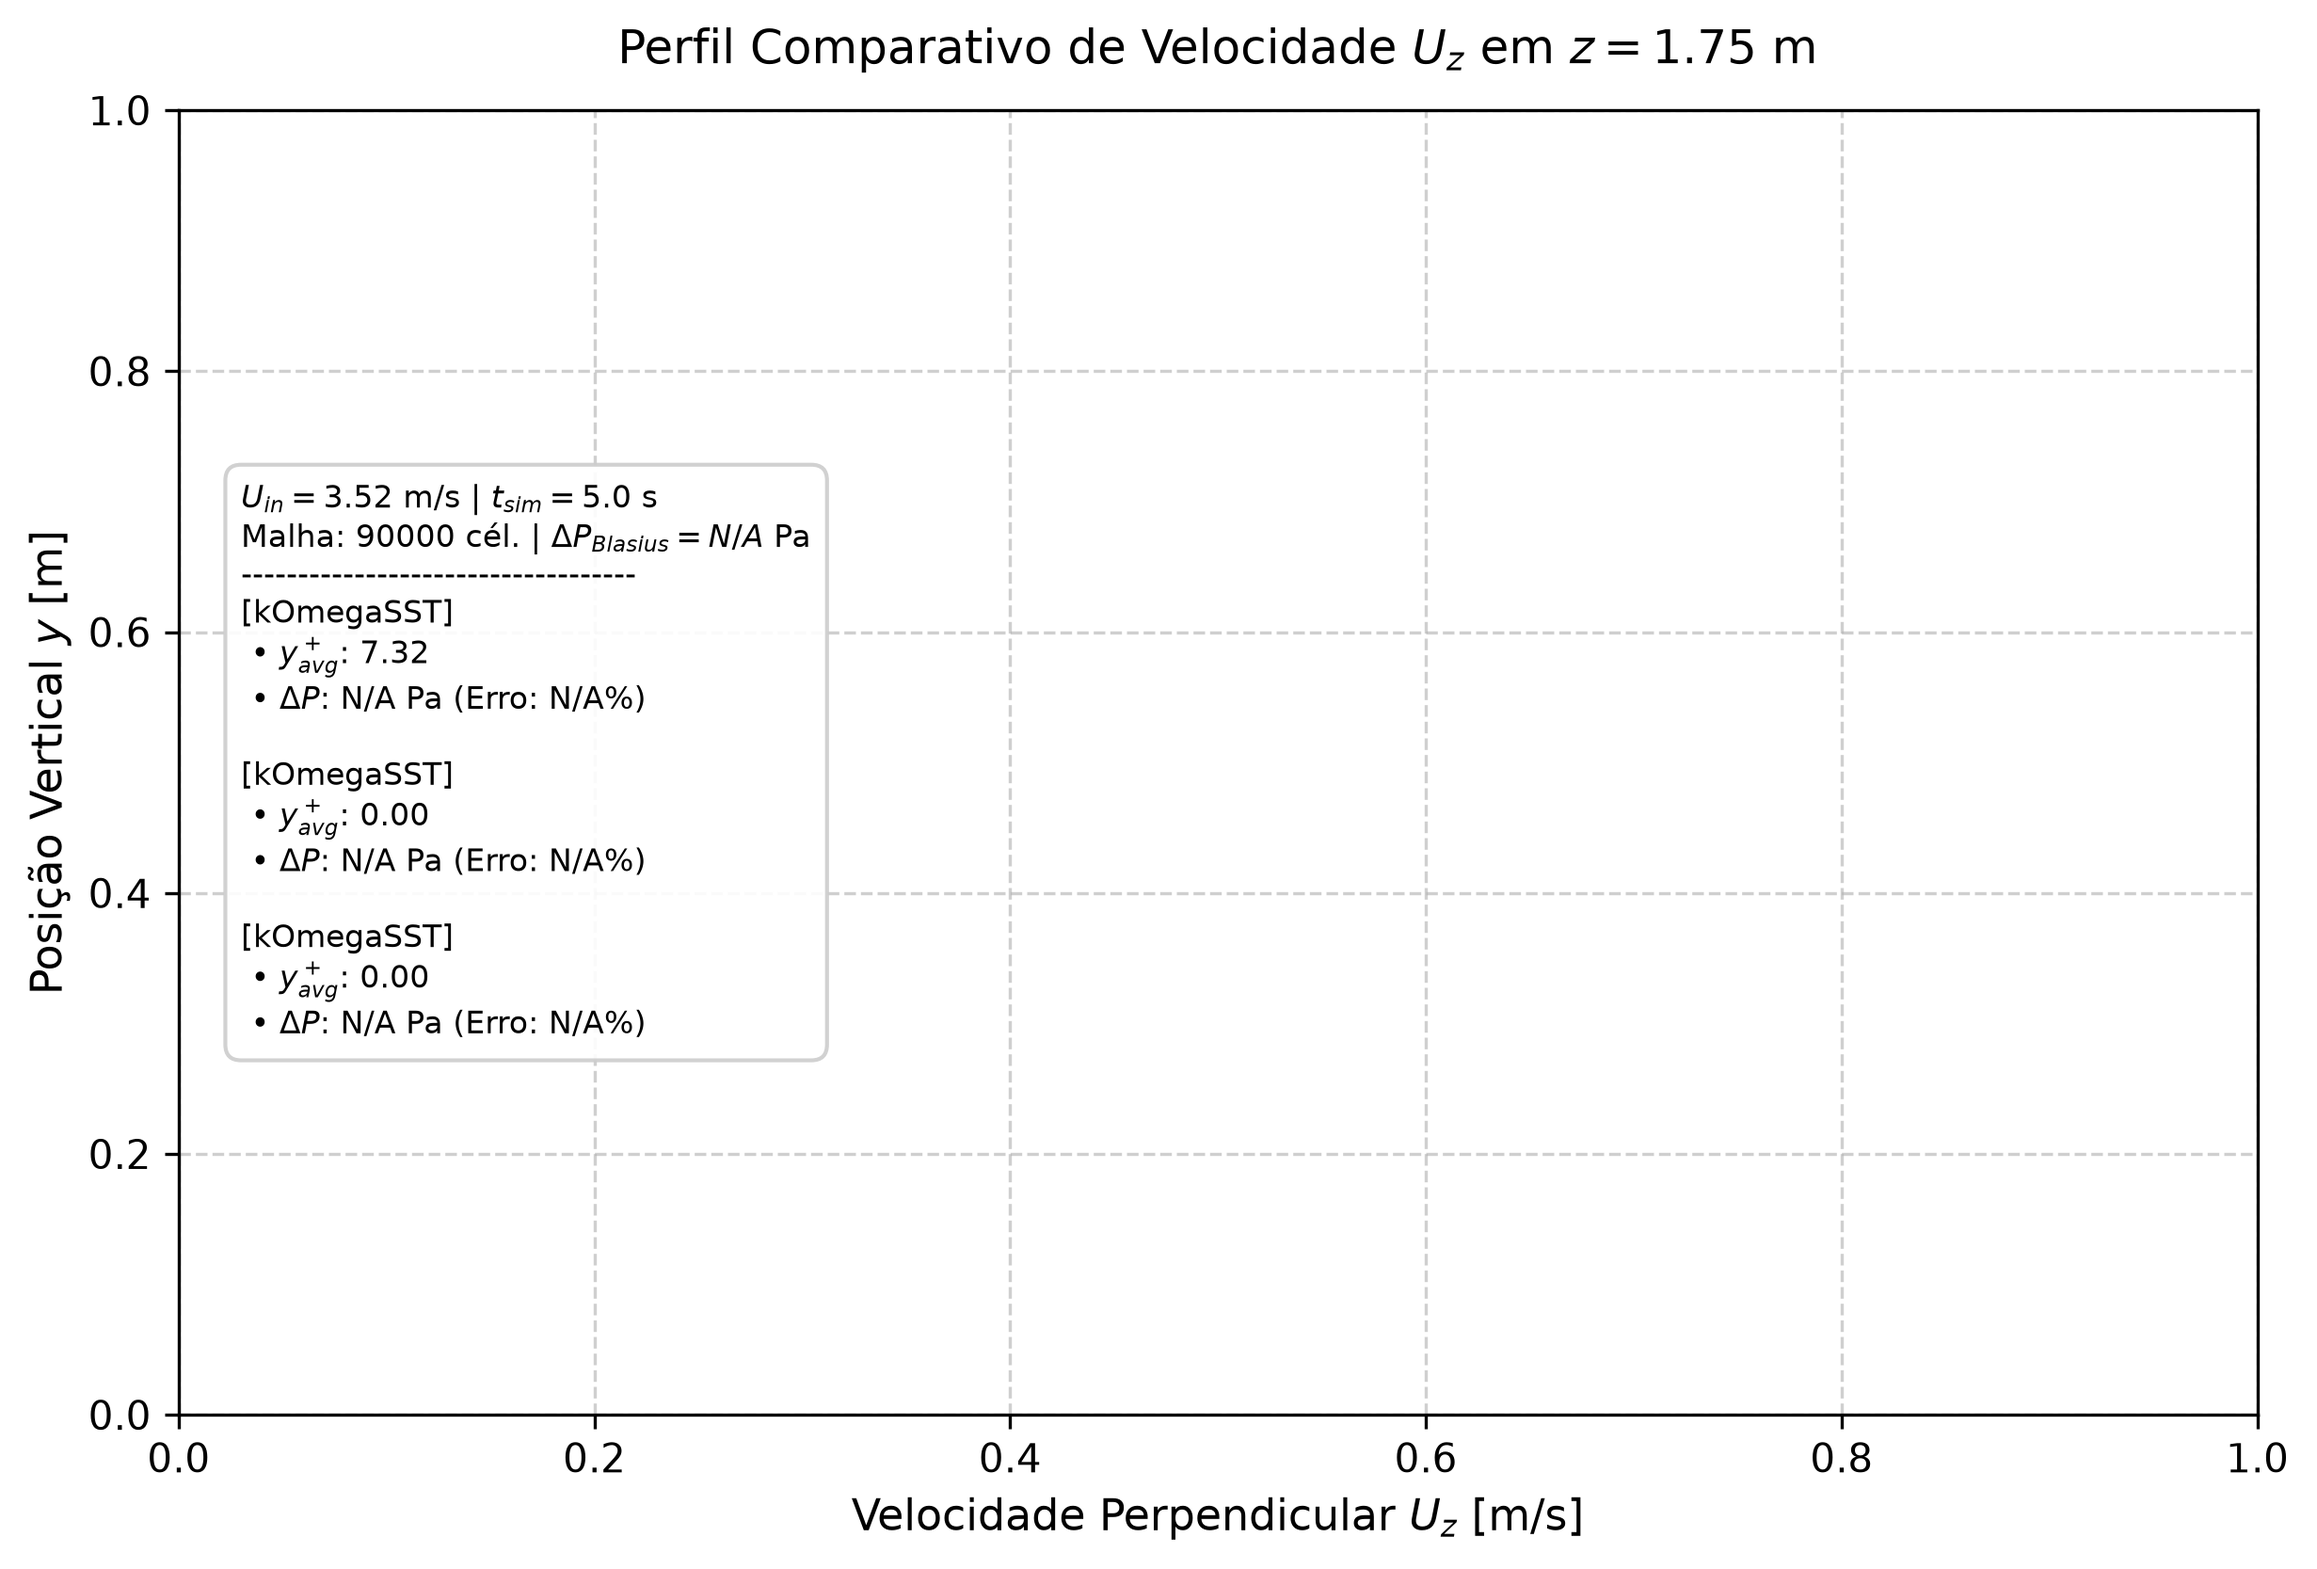
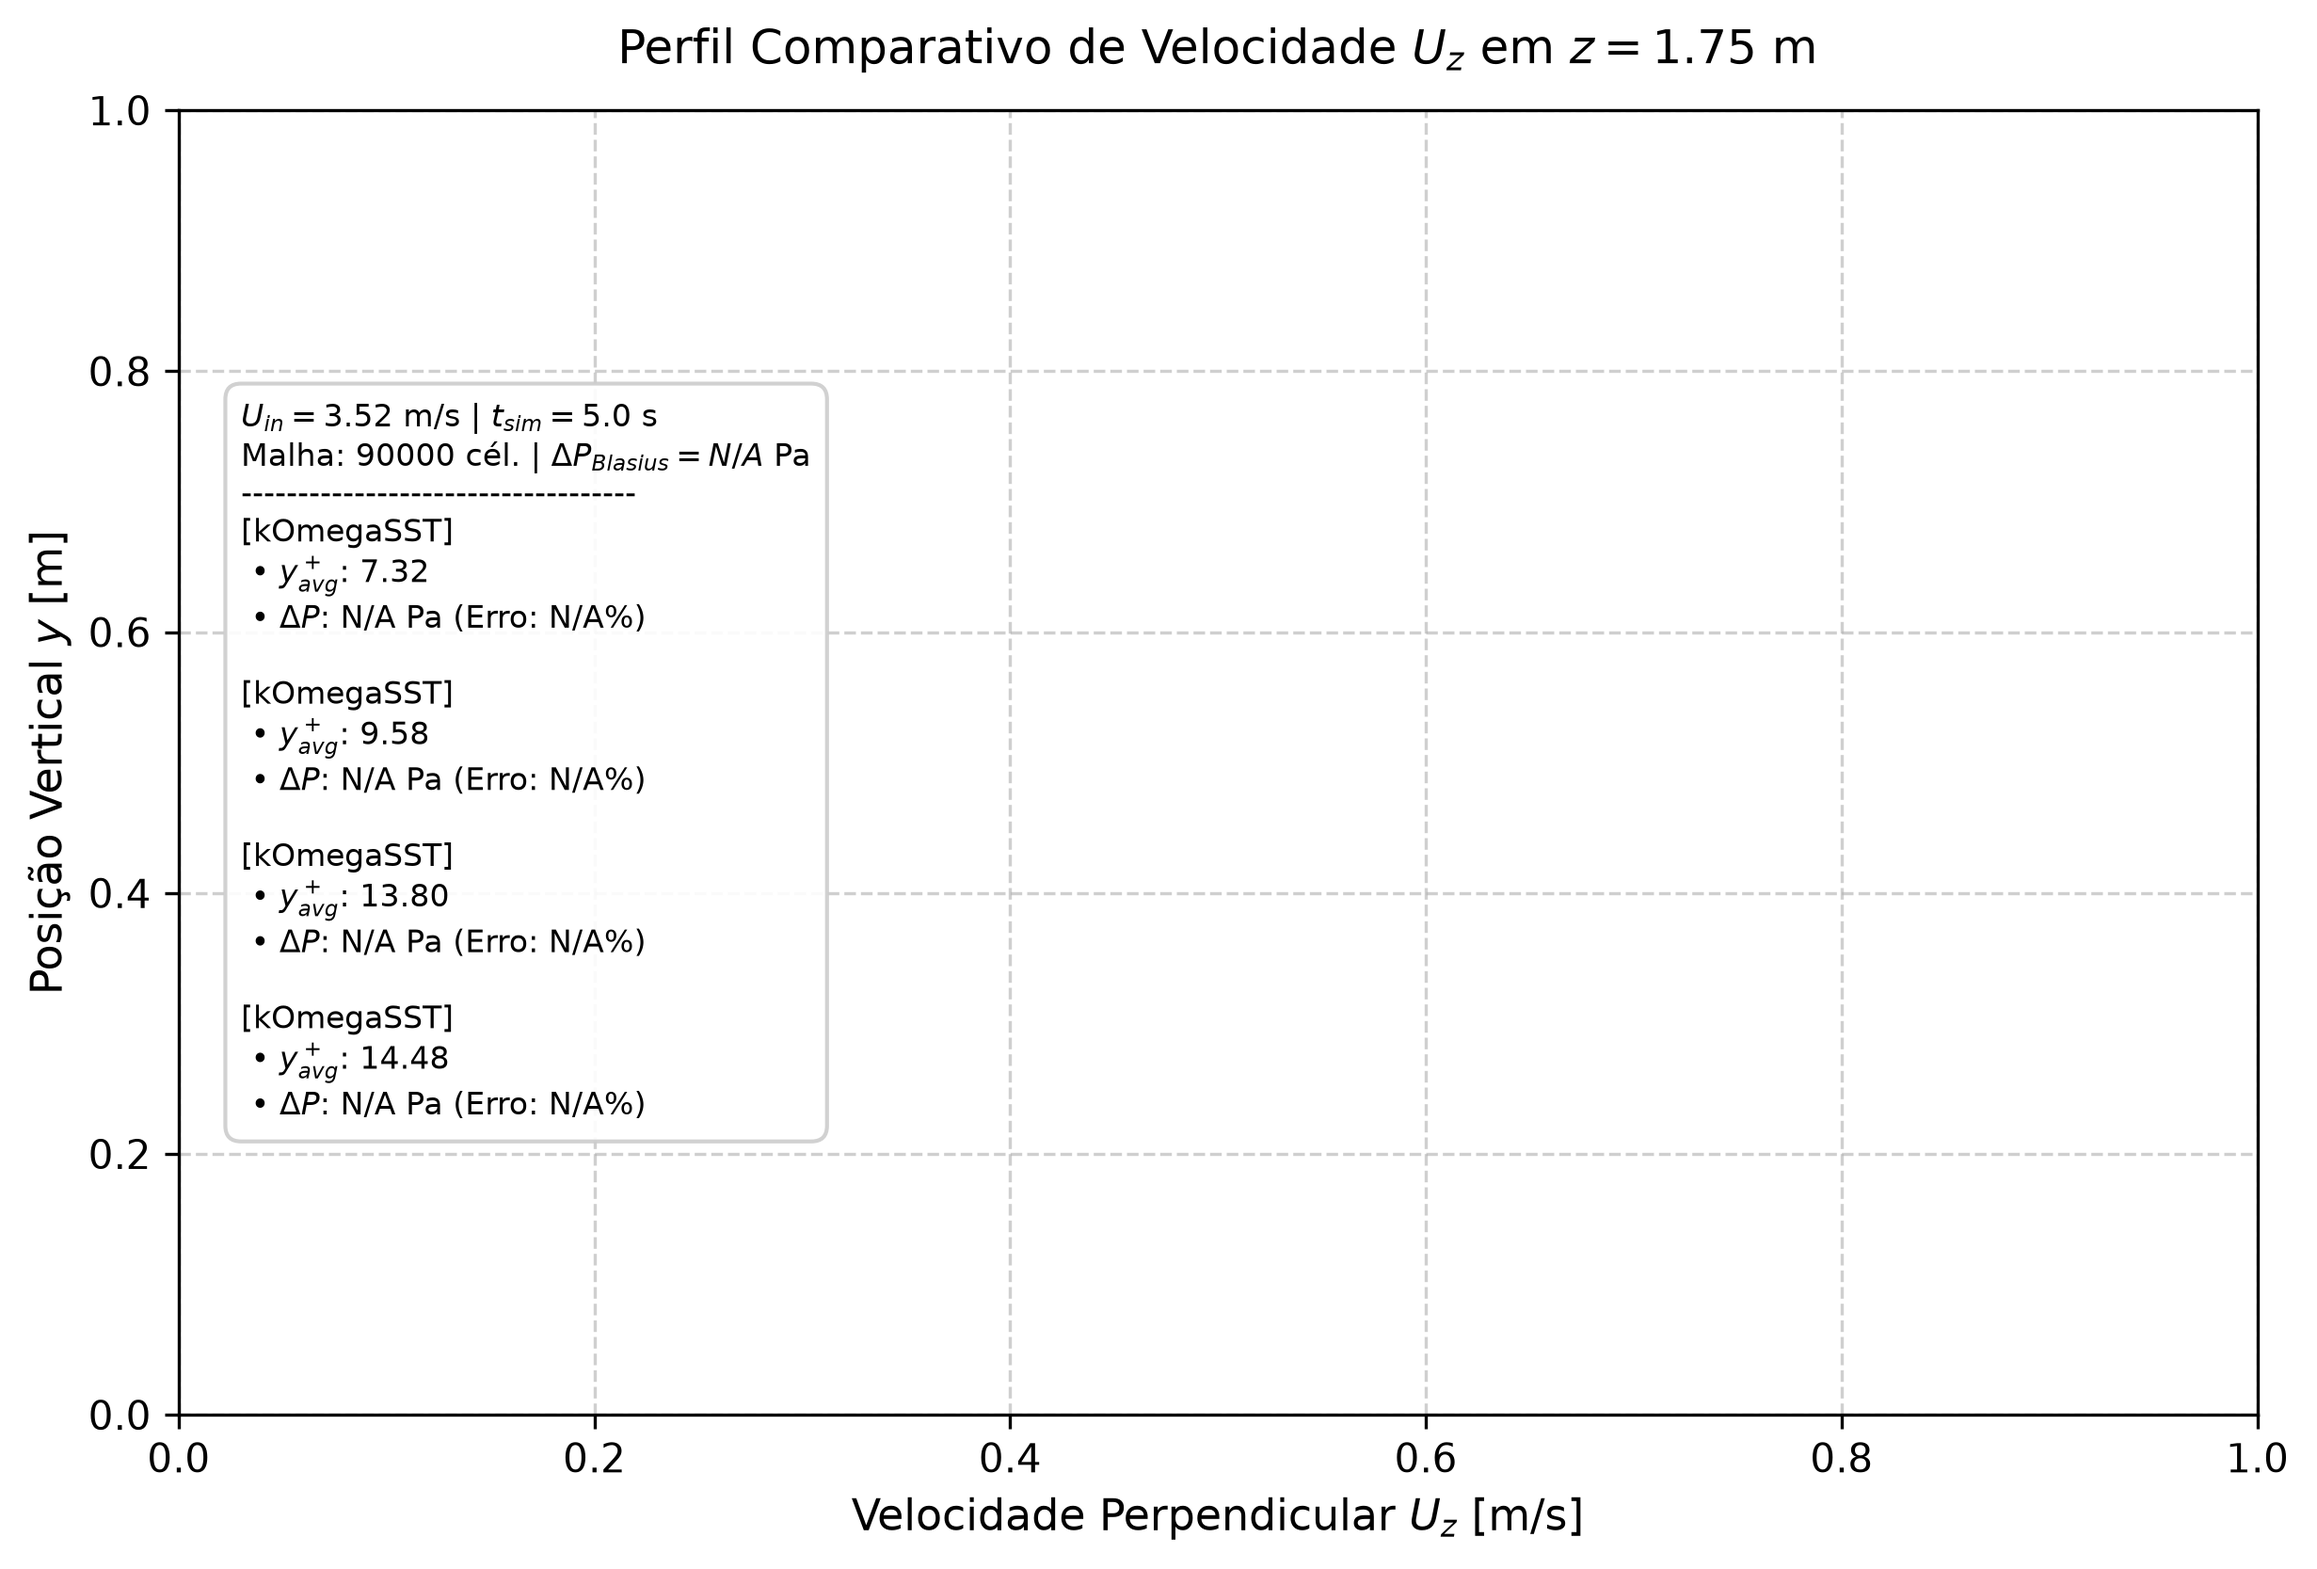
fix(cfd): ajusta outlet para inletOutlet, ativa correctPhi e otimiza solver GAMG/PIMPLE

Changed region(s): [[0.0926, 0.2496, 0.3704, 0.7175]]

diff --git a/scripts/setup_system.py b/scripts/setup_system.py
@@ -45,23 +45,24 @@ gradSchemes
 divSchemes
 {
     default                         none;
-    
-    // Campo de velocidade/momento (limitedLinear evita a difusao excessiva do upwind)
-    "div\(.*phi.*,U\)"                      Gauss limitedLinear 1;
-    
+
+    // Campo de velocidade/momento
+    div(rhoPhi,U)                   Gauss linearUpwindV grad(U);
+    "div\(.*phi.*,U\)"              Gauss linearUpwindV grad(U);
+
     // Multifase (VOF / alpha)
-    "div\(phi,alpha.*\)"                    Gauss vanLeer;
-    "div\(phir,alpha.*\)"                   Gauss linear;
-    "div\(phirb,alpha.*\)"                  Gauss linear;
-    
-    // Campos de Turbulencia RANS (Mantidos em upwind para estabilidade)
-    "div\(.*phi.*,(k|epsilon|omega|nut)\)"  bounded Gauss upwind;
-    
+    "div\(phi,alpha.*\)"            Gauss vanLeer;
+    "div\(phir,alpha.*\)"           Gauss linear;
+    "div\(phirb,alpha.*\)"          Gauss linear;
+
+    // Campos de Turbulencia RANS
+    "div\(.*phi.*,(k|epsilon|omega|nut)\)" bounded Gauss upwind;
+
     // Tensores de viscosidade e termos difusivos
-    "div\(.*dev2\(T\(grad\(U\)\)\)\)"       Gauss linear;
-    
+    "div\(.*dev2\(T\(grad\(U\)\)\)\)"      Gauss linear;
+
     // Fallback generico
-    "div\(.*\)"                             Gauss linear;
+    "div\(.*\)"                     Gauss linear;
 }
 
 laplacianSchemes
@@ -136,17 +137,17 @@ solvers
         nPostSweeps     2;
         cacheAgglomeration on;
         agglomerator    faceAreaPair;
-        nCellsInCoarsestLevel 50;
+        nCellsInCoarsestLevel 10;
         mergeLevels     1;
-        maxIter         100;
+        maxIter         50;
     }
 
     p_rghFinal
     {
         $p_rgh;
-        tolerance       5e-06;
+        tolerance       1e-05;
         relTol          0;
-        maxIter         150;
+        maxIter         50;
     }
 
     "U.*"
@@ -169,10 +170,11 @@ solvers
 
 PIMPLE
 {
-    momentumPredictor   yes;
-    nOuterCorrectors    2;
-    nCorrectors         2;
-    nNonOrthogonalCorrectors 0;
+    momentumPredictor           yes;
+    correctPhi                  yes;
+    nOuterCorrectors            2;
+    nCorrectors                 2;
+    nNonOrthogonalCorrectors    0;
 
     residualControl
     {

diff --git a/config/simulation_config.py b/config/simulation_config.py
@@ -14,9 +14,9 @@ class SimulationConfig(BaseModel):
     # Controle de Tempo e Estabilidade Numérica
     end_time: float = Field(default=5, gt=0, description="Tempo final de simulação em segundos")
     delta_t: float = Field(default=1e-5, gt=0, description="Passo de tempo inicial em segundos")
-    max_co: float = Field(default=0.5, gt=0, le=1.0, description="Número de Courant máximo")
-    max_alpha_co: float = Field(default=0.25, gt=0, le=1.0, description="Courant máximo da interface")
-    max_delta_t: float = Field(default=0.01, gt=0, description="Passo de tempo máximo permitido em segundos")
+    max_co: float = Field(default=0.35, gt=0, le=1.0, description="Número de Courant máximo")
+    max_alpha_co: float = Field(default=0.2, gt=0, le=1.0, description="Courant máximo da interface")
+    max_delta_t: float = Field(default=5e-4, gt=0, description="Passo de tempo máximo permitido em segundos")
     write_interval: float = Field(default=0.1, gt=0, description="Frequência de gravação")
 
     # ==========================================================================

diff --git a/scripts/setup_0.py b/scripts/setup_0.py
@@ -292,7 +292,9 @@ boundaryField
 
     outlet
     {{
-        type            zeroGradient;
+        type            inletOutlet;
+        inletValue      uniform (0 0 0);
+        value           uniform (0 0 {u_avg:.6f});
     }}
 
     walls
